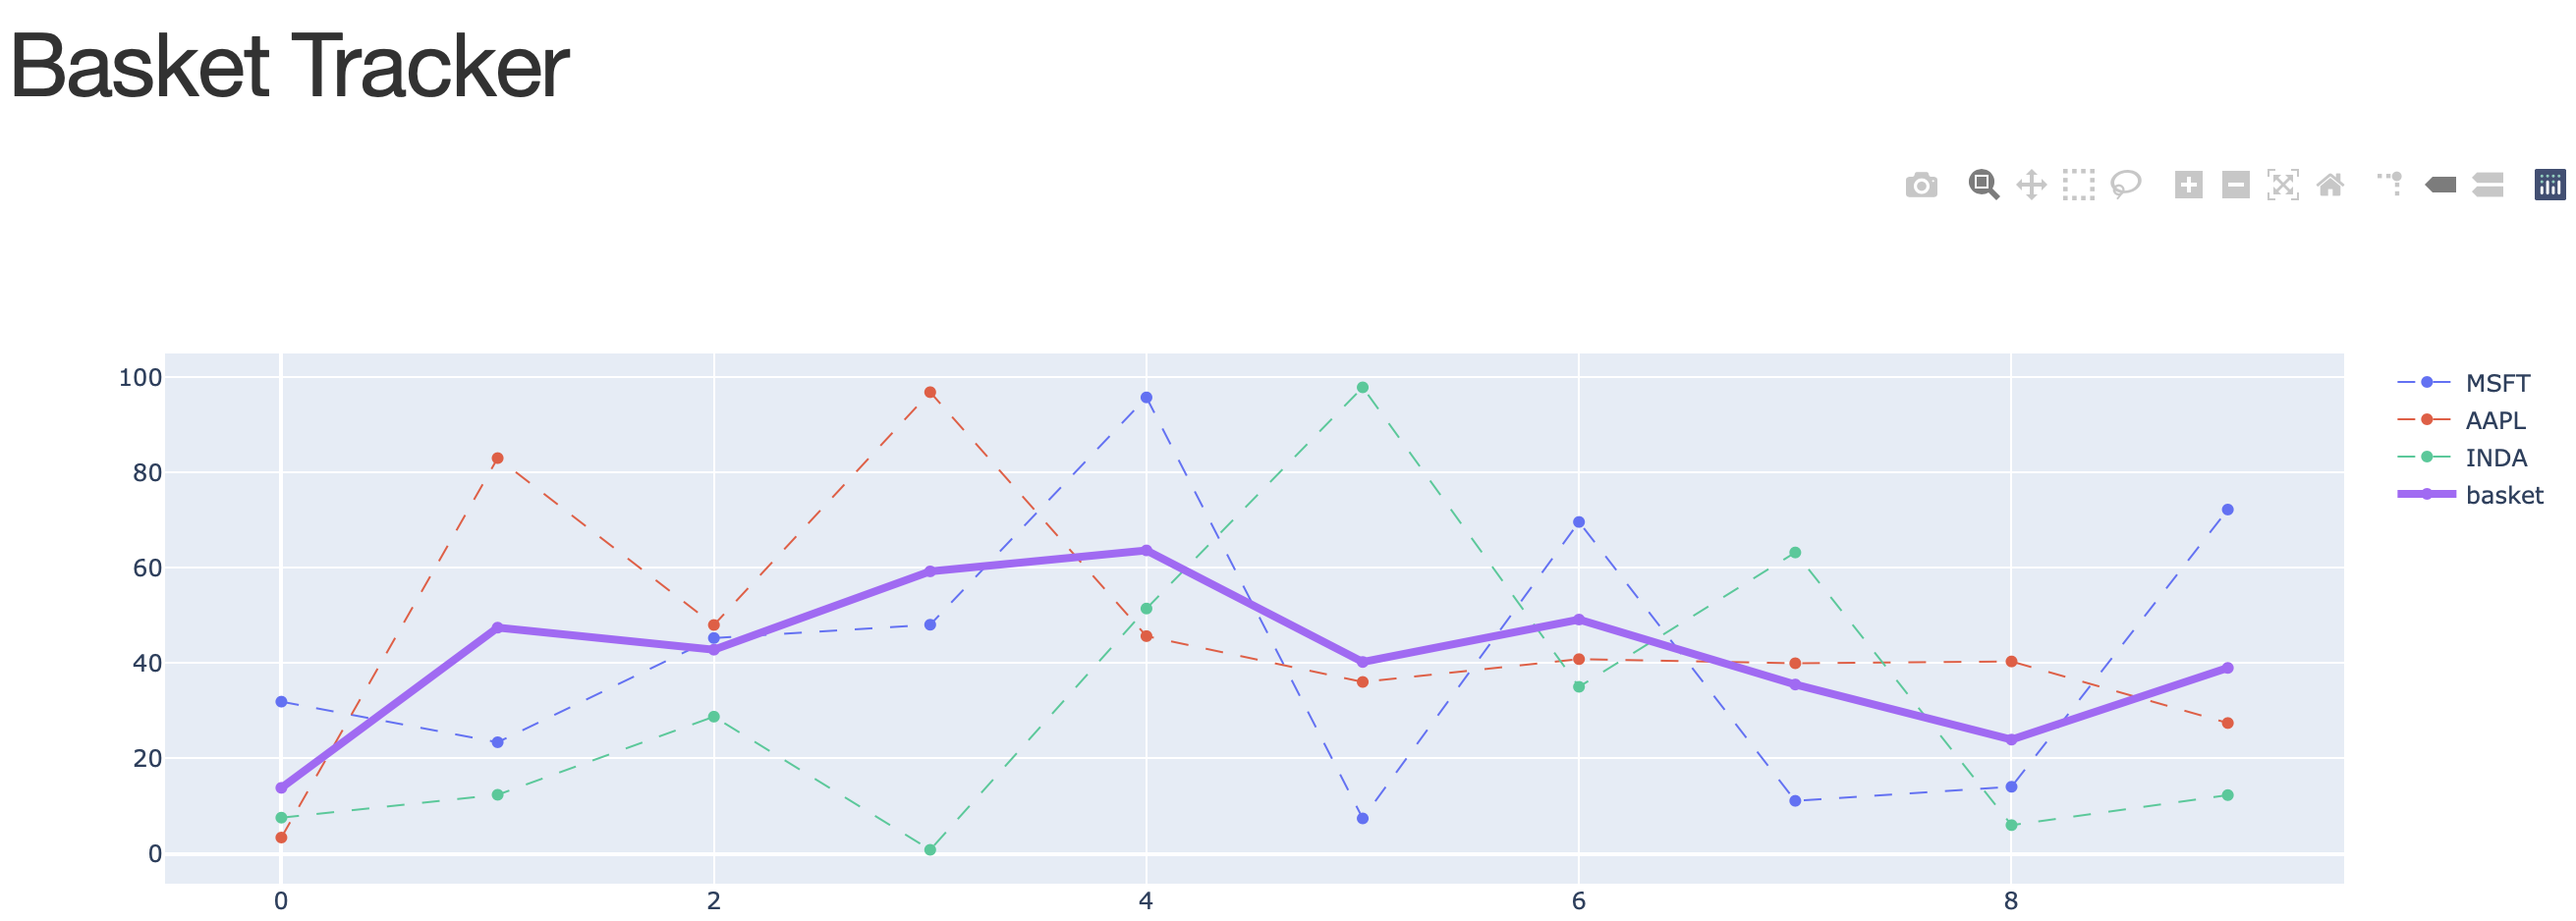
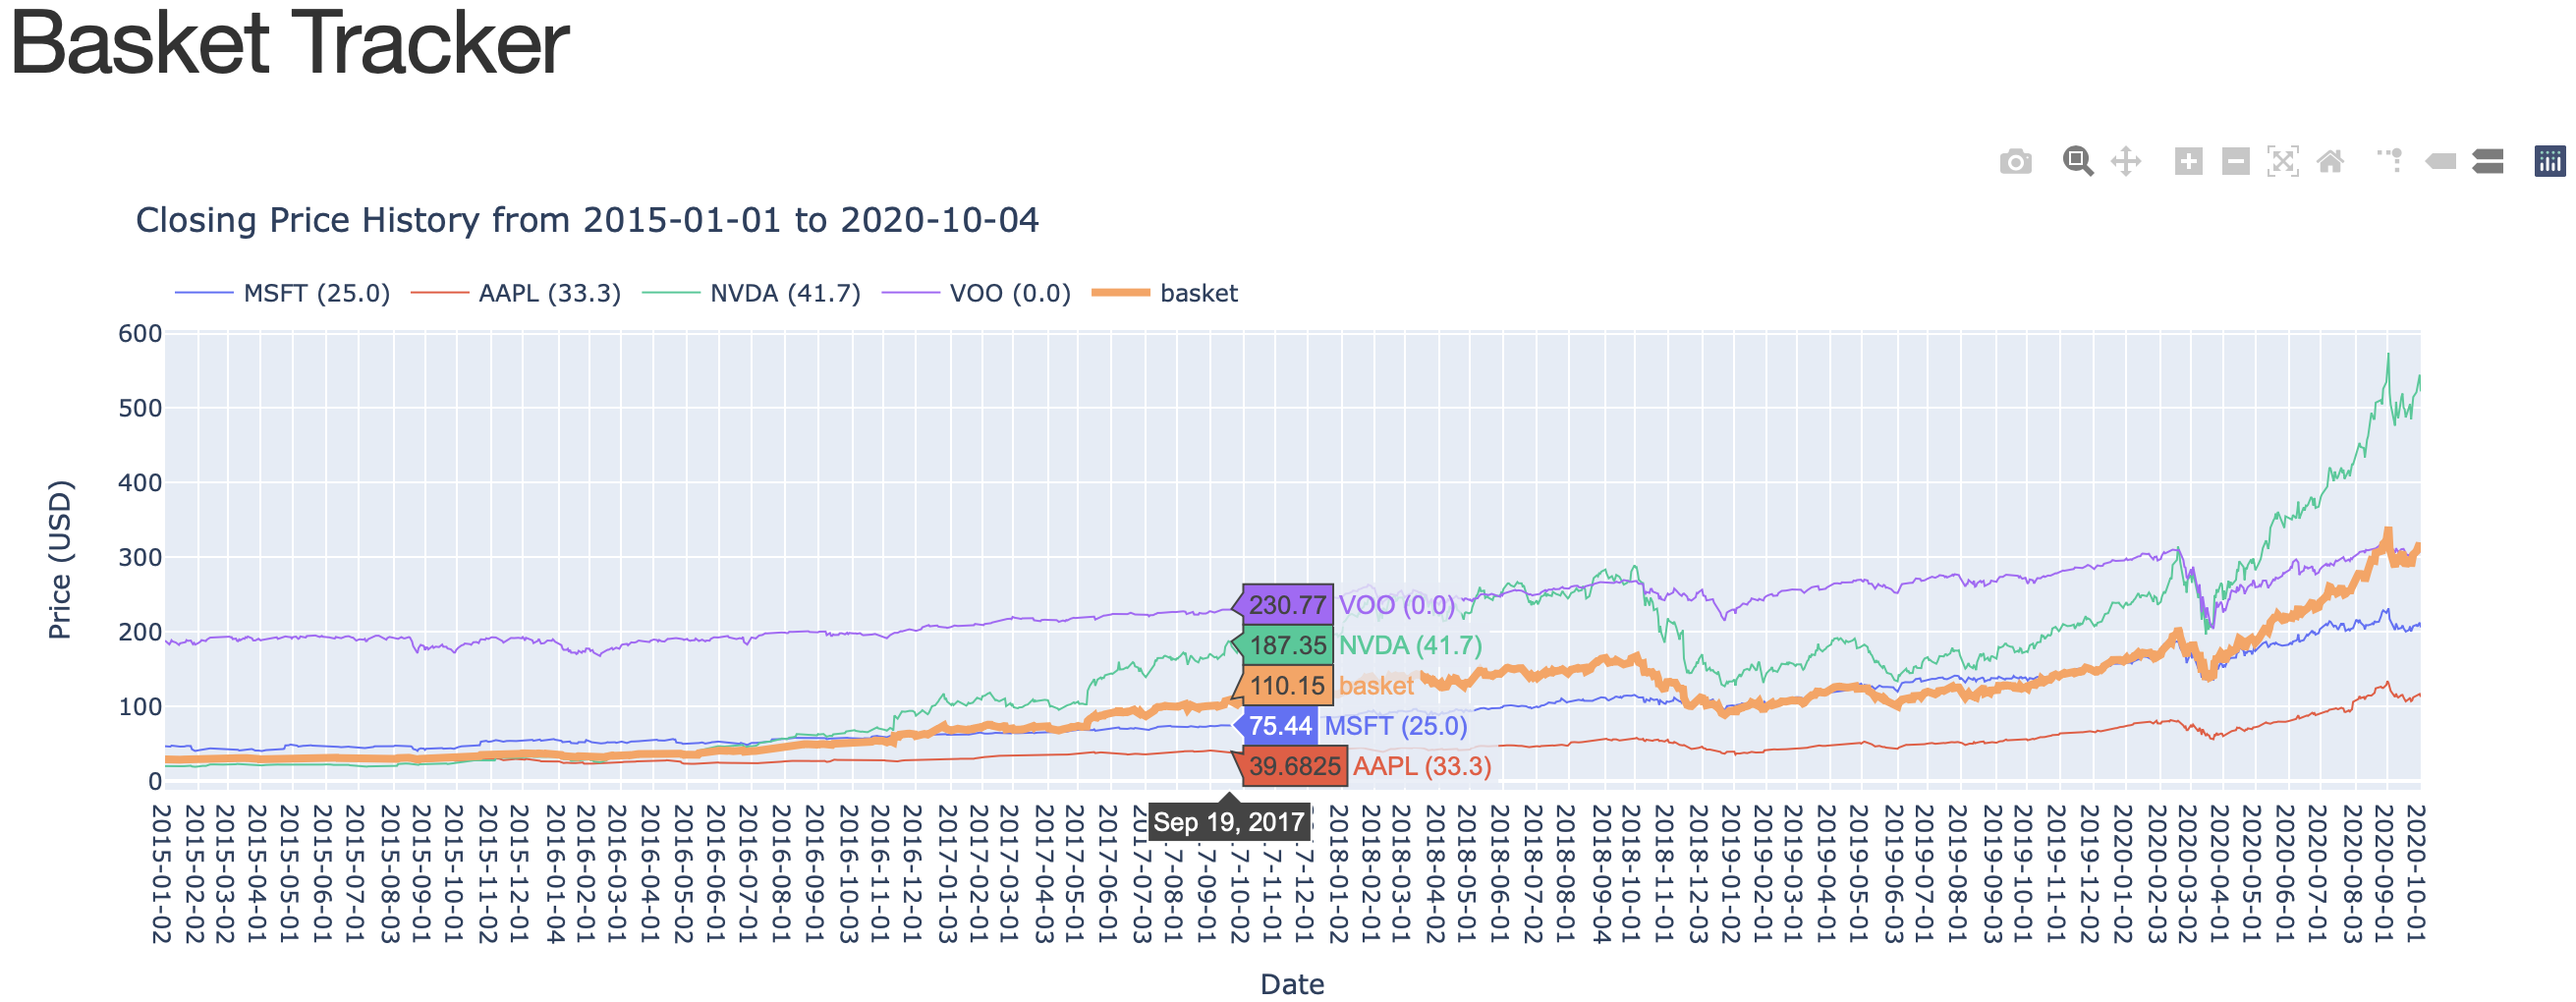
working with real data, axes labels

diff --git a/show_history.py b/show_history.py
@@ -1,8 +1,13 @@
+import enum
+
+import dash
 from app import start_app
+from datetime import datetime
 import json
 import plotly.express as px
 import plotly.graph_objects as go
 import numpy as np
+import yfinance as yf
 
 
 class Stock(object):
@@ -11,18 +16,22 @@ class Stock(object):
     self.vis = True
     self.prices = []
     self.times = []
-    self.vis_kwargs = {'mode': 'lines+markers',
-                       'line': {'width': 1, 'dash': 'dash'}}
+    self.vis_kwargs = {'mode': 'lines',
+                       'line': {'width': 1,}}
 
-  def get_data(self, start_year=-1):
-    print('Getting {:s} data'.format(self.name))
-    self.times = np.asarray(list(range(10)))
-    self.prices = np.random.uniform(0, 100, len(self.times))
+  # def get_data(self):
+  #   print('Getting {:s} data'.format(self.name))
+  #   self.times = np.asarray(list(range(10)))
+  #   self.prices = np.random.uniform(0, 100, len(self.times))
 
 
 class BasketTracker(object):
-  def __init__(self, filename, start_year=1990) -> None:
-    self.start_year = start_year
+  def __init__(self, filename, start_date, end_date) -> None:
+    self.start_date = start_date
+    if end_date is not None:
+      self.end_date = end_date
+    else:
+      self.end_date = datetime.today().strftime('%Y-%m-%d')
     
     with open(filename, 'r') as f:
       d = json.load(f)
@@ -36,11 +45,32 @@ class BasketTracker(object):
       print('Normalizing basket fractions')
     self.fracs = np.asarray(fracs) / np.sum(fracs)
     self.stocks = [Stock(n) for n in names]
-    for s in self.stocks:
-      s.get_data(self.start_year)
+    self.dates = []
+    self._get_data()
+    # for s in self.stocks:
+    #   s.get_data()
 
     self.fig = go.Figure()
 
+
+  def _get_data(self):
+    tickers = ' '.join([s.name for s in self.stocks])
+    data = yf.download(tickers, start=self.start_date, end=self.end_date,
+                       interval='1d')
+    self.dates = [str(d).split(' ')[0] for d in data.index]
+    min_time = len(self.dates)
+    max_time = 0
+    for s in self.stocks:
+      p = data['Close', s.name].to_numpy()
+      idx = np.isfinite(p)
+      s.prices = p[idx]
+      s.times = np.nonzero(idx)[0]
+      if s.times[0] < min_time:
+        min_time = s.times[0]
+      if s.times[-1] > max_time:
+        max_time = s.times[-1]
+    # self.dates = [(i, all_dates[i]) for i in range(min_time, max_time+1)]
+      
   
   def _calc_basket(self):
     b = Stock('basket')
@@ -56,17 +86,50 @@ class BasketTracker(object):
       ps.append(f * s.prices[i0:i1+1])
     b.prices = np.sum(np.vstack(ps), axis=0)
     b.vis_kwargs['line']['width'] = 4
-    b.vis_kwargs['line'].pop('dash')
     return b
+
+
+  def _segment_dates(self):
+    times = [0]
+    dates = [self.dates[0]]
+    for i in range(10, len(self.dates)-1):
+      d0 = int(self.dates[i].split('-')[-1])
+      d1 = int(self.dates[i+1].split('-')[-1])
+      if d1 < d0:
+        times.append(i+1)
+        dates.append(self.dates[i+1])
+    return times, dates
 
   
   def show(self):
     self.fig.data = []
-    for s in self.stocks + [self._calc_basket()]:
+    stocks = self.stocks + [self._calc_basket()]
+    for idx, s in enumerate(stocks):
       if not s.vis:
         continue
-      self.fig.add_trace(go.Scatter(x=s.times, y=s.prices, name=s.name,
-                                    **s.vis_kwargs))
+      name = s.name
+      if name != 'basket':
+        name += ' ({:.1f})'.format(100.0*self.fracs[idx])
+      x = [self.dates[t] for t in s.times]
+      self.fig.add_trace(go.Scatter(x=x, y=s.prices, name=name, **s.vis_kwargs))
+    tick_times, tick_dates = self._segment_dates()
+    self.fig.update_layout(
+      xaxis = dict(
+        tickmode = 'array',
+        tickvals = tick_dates,
+        ticktext = tick_dates,
+      ),
+      legend = dict(
+        xanchor='left',
+        x=0,
+        yanchor='bottom',
+        y=1.02,
+        orientation='h',
+      ),
+      title='Closing Price History from {:s} to {:s}'.format(self.start_date, self.end_date),
+      xaxis_title='Date',
+      yaxis_title='Price (USD)'
+    )
     start_app(self.fig)
 
 
@@ -74,8 +137,9 @@ if __name__ == '__main__':
   import argparse
   parser = argparse.ArgumentParser()
   parser.add_argument('-f', '--ticker_names_file', required=True)
-  parser.add_argument('--start_year', type=int, default=1990)
+  parser.add_argument('--start_date', default='2015-01-01')
+  parser.add_argument('--end_date', default=None)
   args = parser.parse_args()
 
-  bt = BasketTracker(args.ticker_names_file, args.start_year)
+  bt = BasketTracker(args.ticker_names_file, args.start_date, args.end_date)
   bt.show()

diff --git a/README.md b/README.md
@@ -2,8 +2,7 @@
 
 Simple tool that allows you to track the price of a weighted basket of stocks.
 
-|![teaser](teaser.png)|
--
+![teaser](teaser.png)
 
 ## Setup
 - Get [Miniconda](https://docs.conda.io/en/latest/miniconda.html). Then:
@@ -49,3 +48,18 @@ Dash is running on http://127.0.0.1:8050/
 ```
 
 The app will be live at [http://localhost:8050](http://localhost:8050).
+
+# Basket Specification
+
+It is a simple JSON file containing ticker names and fractions or numbers of
+shares (the latter will be normalized):
+
+```
+{
+    "MSFT": 3,
+    "AAPL": 4,
+    "NVDA": 5,
+    "VOO": 0
+}
+```
+You can set the fraction 0 to include a ticker for reference (e.g. `VOO` above).
